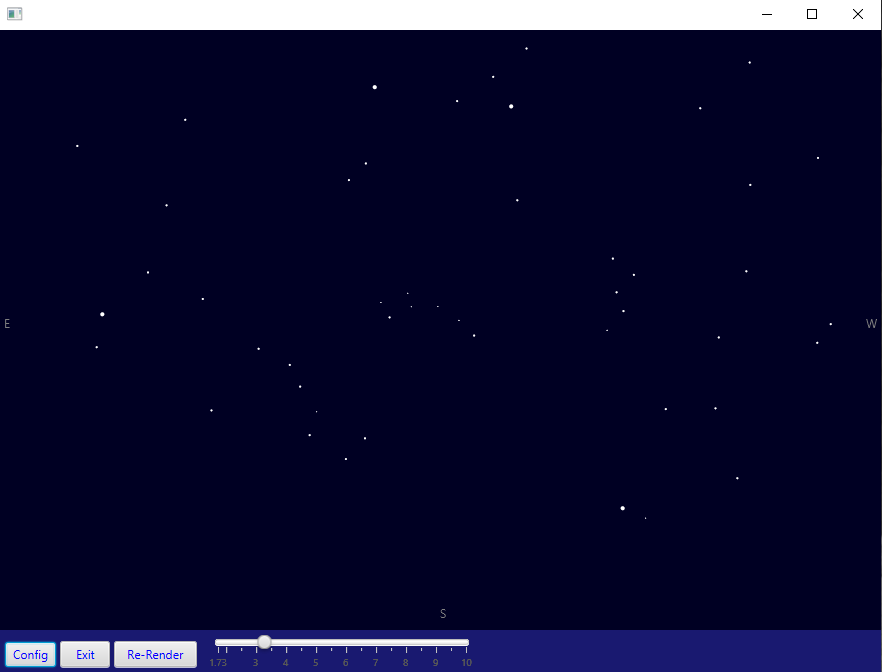
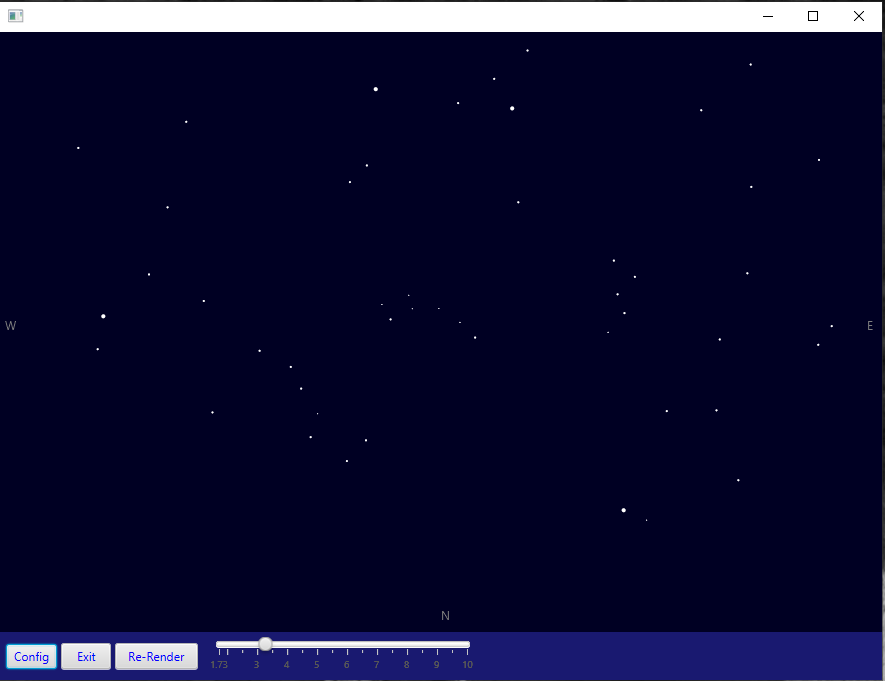
Update screen shots.

diff --git a/gui/src/main/java/com/dqrapps/planetarium/gui/plot/PlotController.java b/gui/src/main/java/com/dqrapps/planetarium/gui/plot/PlotController.java
@@ -111,7 +111,7 @@ public class PlotController {
         gc.setStroke(Color.GRAY);
         gc.setFill(Color.GRAY);
         gc.setFont(Font.getDefault());
-        if (horizon.equals(Horizon.NORTH.name())) {
+        if (horizon.equals(Horizon.NORTH)) {
             gc.fillText("W", 5, this.canvas.getHeight() / 2.0);
             gc.fillText("E", canvas.getWidth() - 15.0, this.canvas.getHeight() / 2.0, 100);
             gc.fillText("N", this.canvas.getWidth() / 2.0, canvas.getHeight() - 10.0, 100);

diff --git a/README.md b/README.md
@@ -6,10 +6,10 @@ Planetarium Running JavaFX on JDK 11 with Maven
 
 A simple implementation of a Planetarium (limited stars only). 
 
-### Northern Sky: 09/27/2021 - 21:16
+### Northern Sky: 09/27/2021 - 21:08
 
 ![Northern Sky](./logic/src/main/resources/support/NorthernSky.PNG)
 
-### Southern Sky: 09/27/2021 - 21:16
+### Southern Sky: 09/27/2021 - 21:08
 
 ![Southern Sky](./logic/src/main/resources/support/SouthernSky.PNG)
